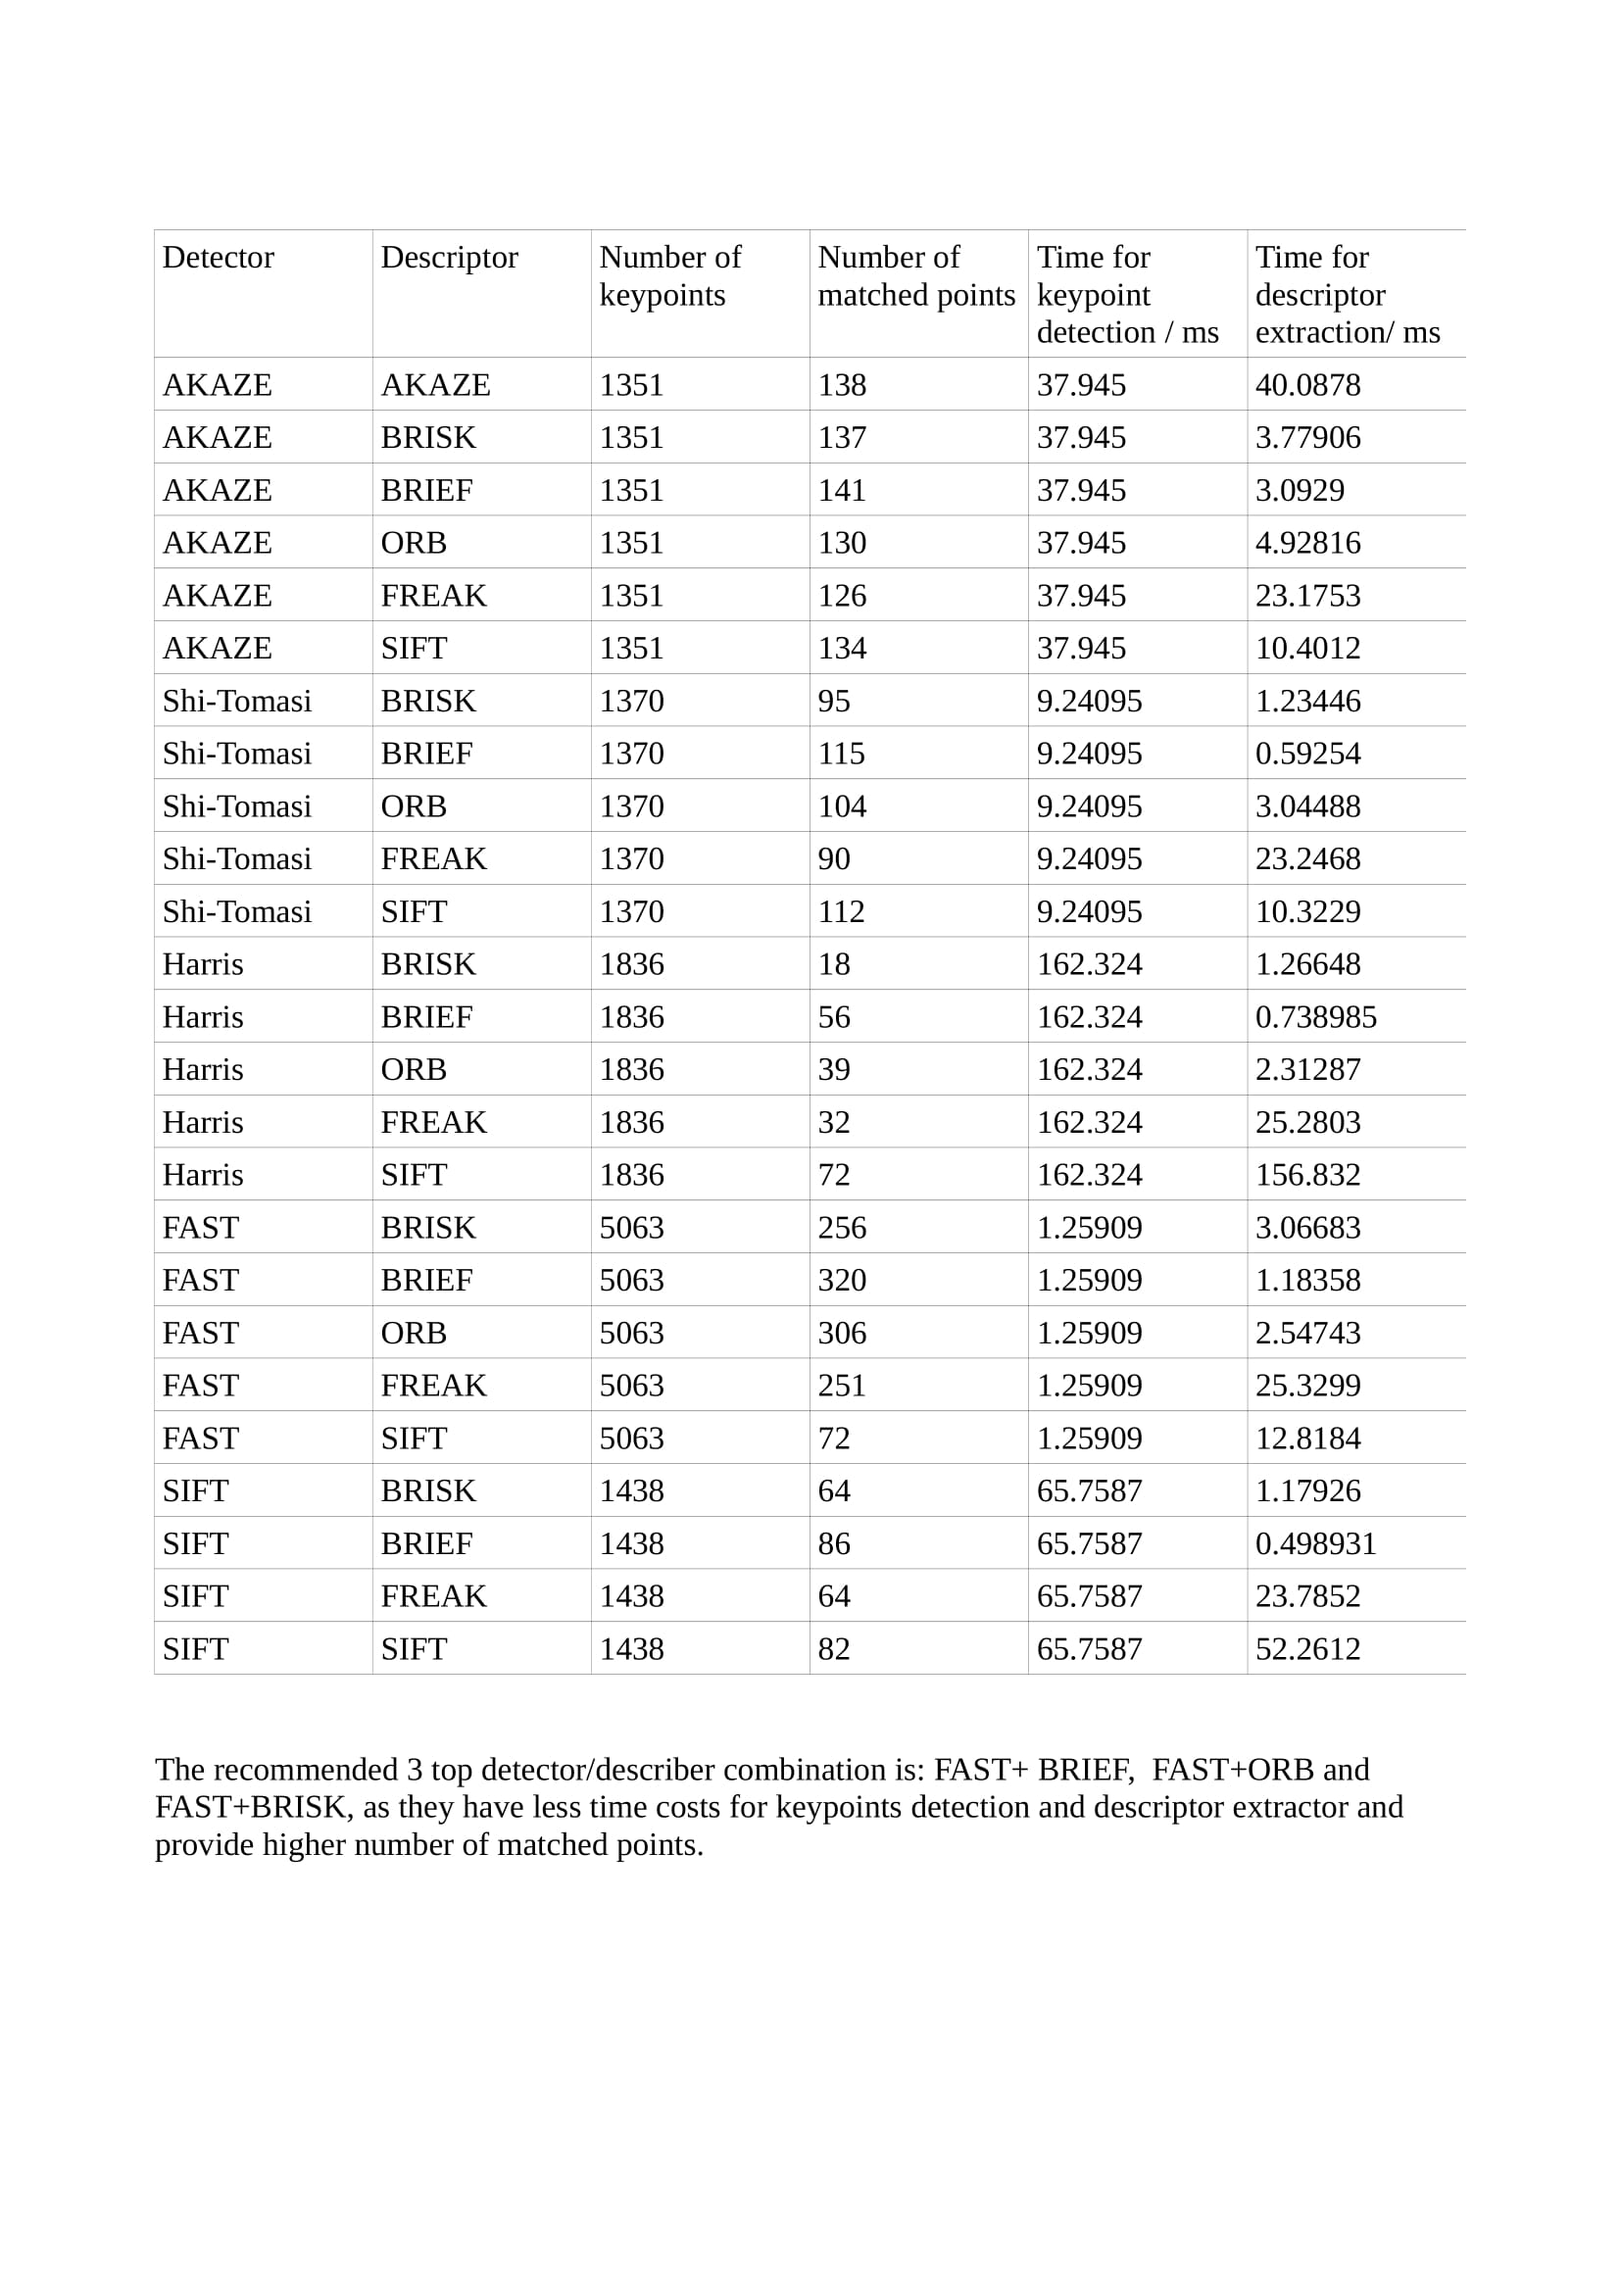
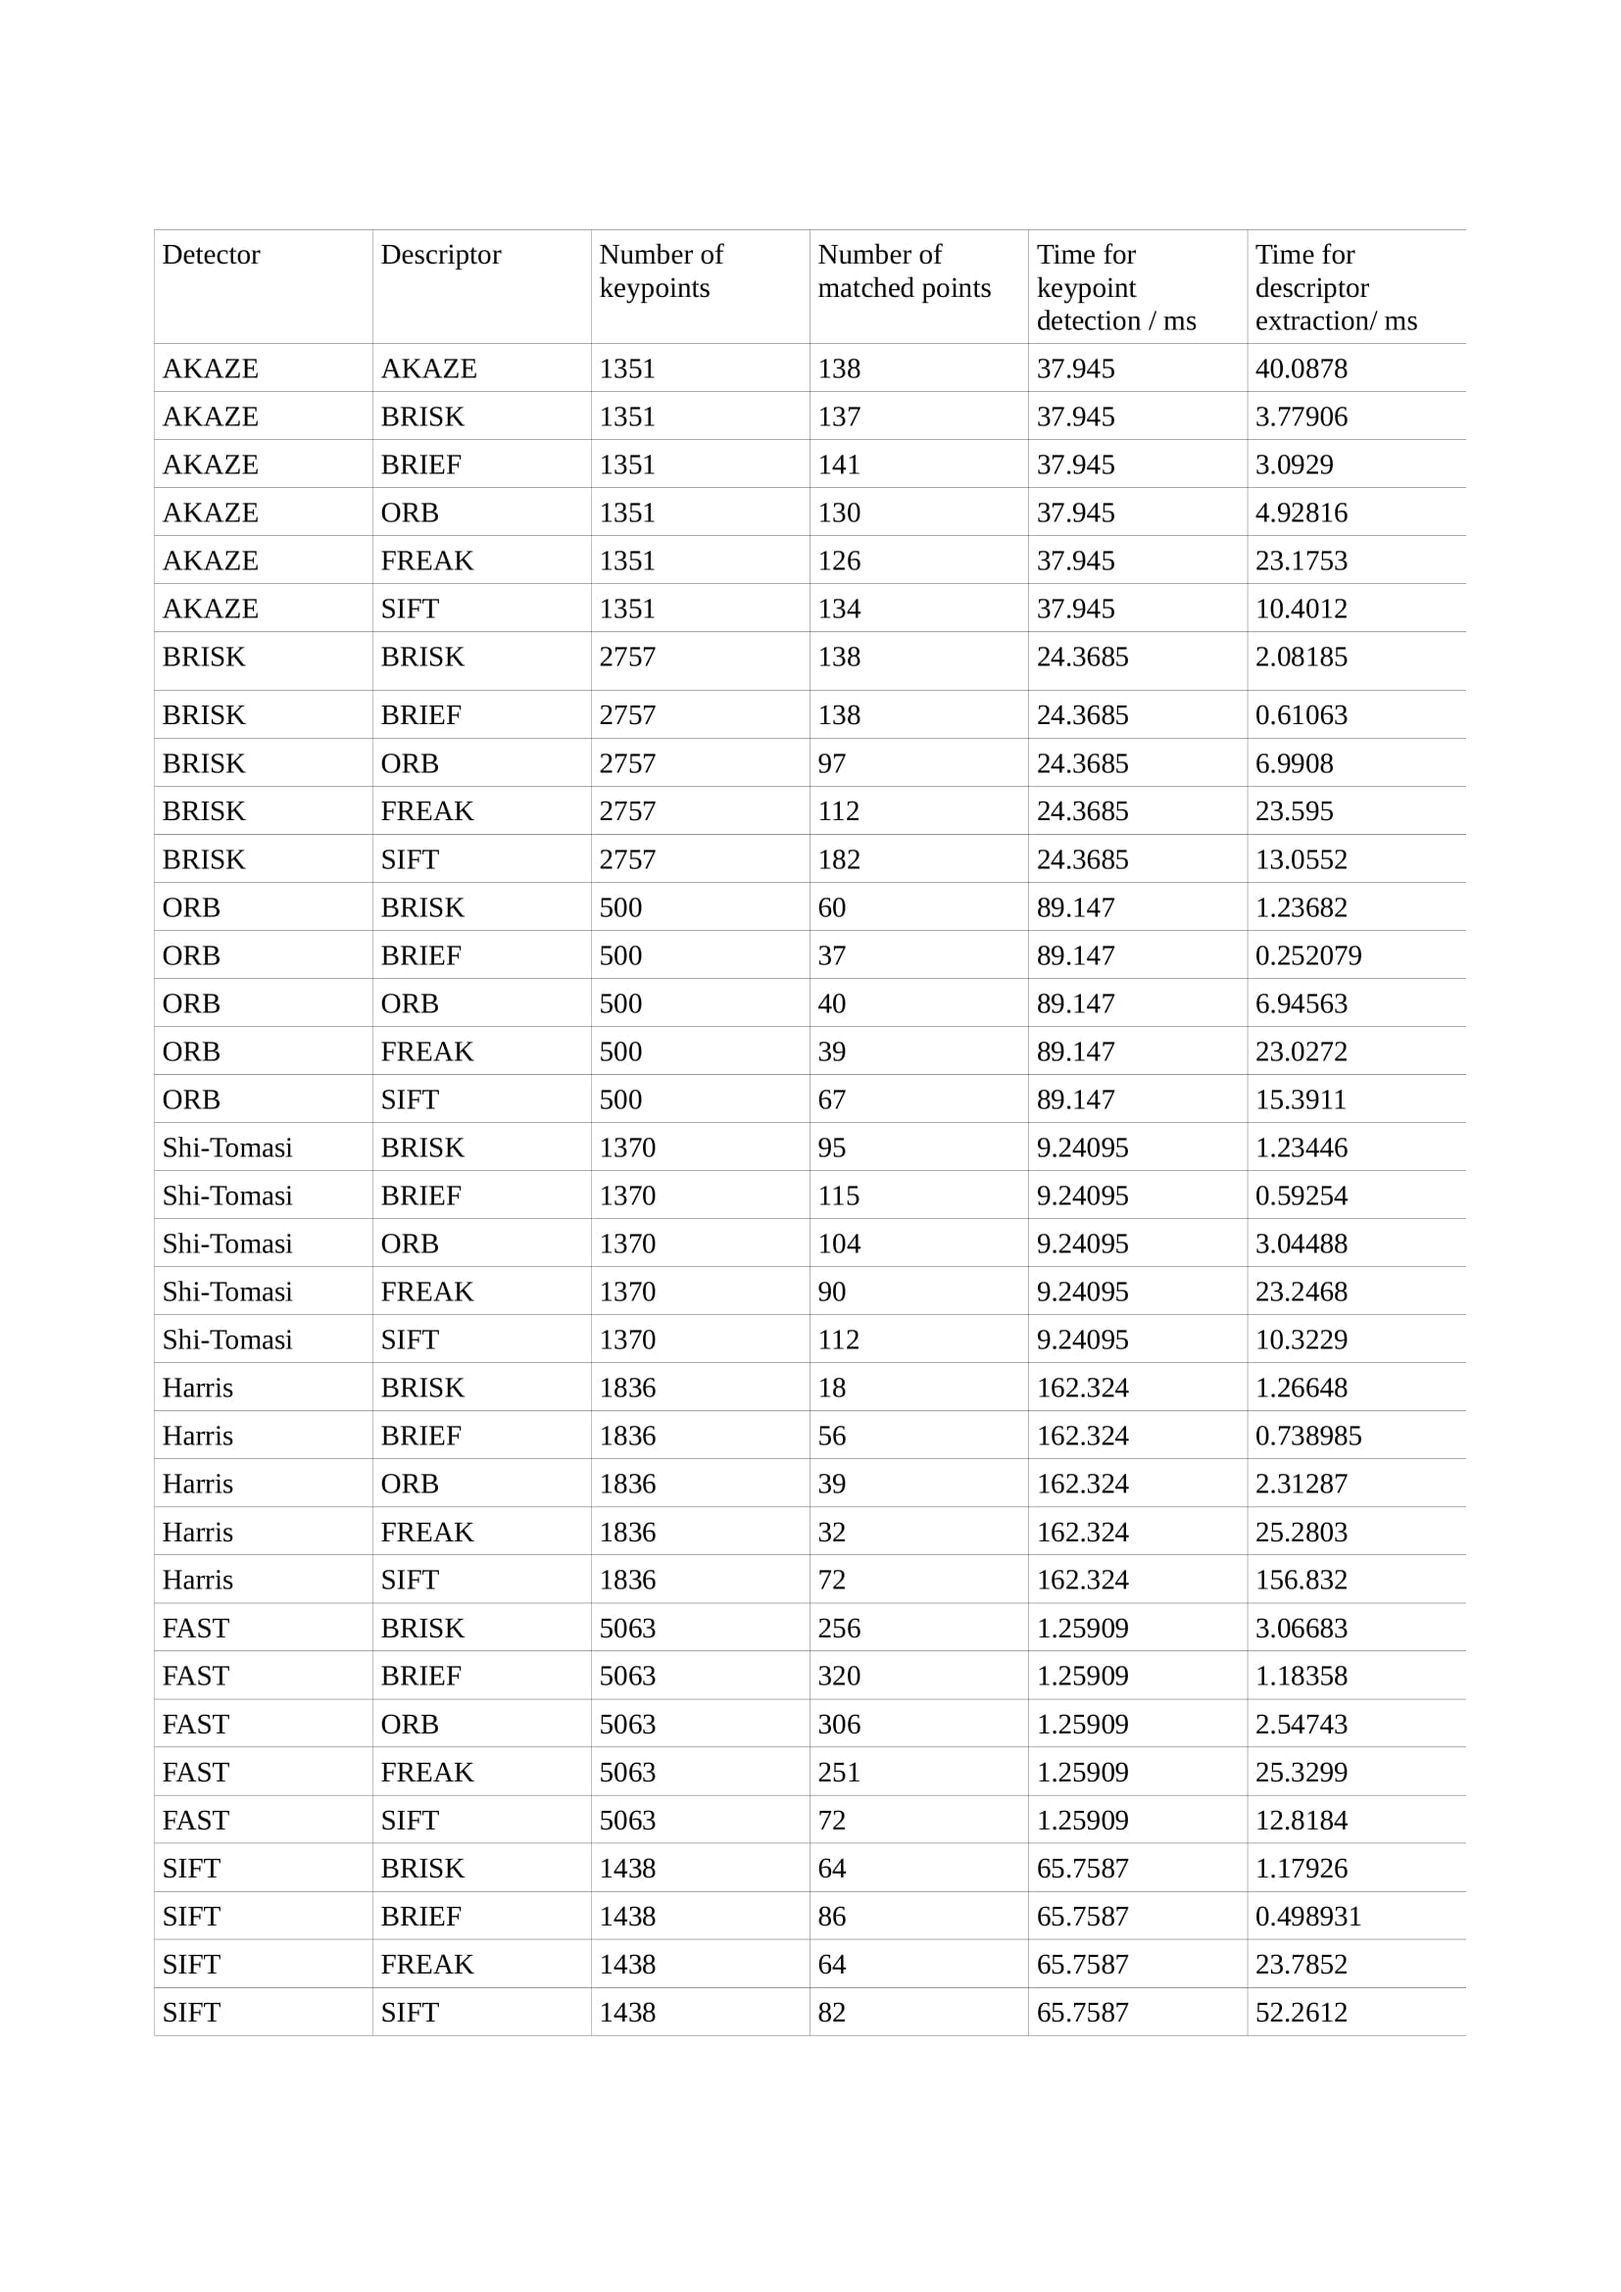
midterm project update

Changed region(s): [[0.0925, 0.0936, 0.8942, 0.9051], [0.2467, 0.0936, 0.3083, 0.1248], [0.0925, 0.0936, 0.1542, 0.1248]]

diff --git a/SFND_2D_Feature_Tracking/src/MidTermProject_Camera_Student.cpp b/SFND_2D_Feature_Tracking/src/MidTermProject_Camera_Student.cpp
@@ -74,7 +74,7 @@ int main(int argc, const char *argv[])
 
         // extract 2D keypoints from current image
         vector<cv::KeyPoint> keypoints; // create empty feature list for current image
-        string detectorType = "SIFT";
+        string detectorType = "BRISK";
 
         //// STUDENT ASSIGNMENT
         //// TASK MP.2 -> add the following keypoint detectors in file matching2D.cpp and enable string-based selection based on detectorType
@@ -103,6 +103,10 @@ int main(int argc, const char *argv[])
         else if(detectorType == "AKAZE")
         {
             detKeypointsAKAZE(keypoints, imgGray, false);
+        }
+        else if(detectorType == "BRISK")
+        {
+            detKeypointsBRISK(keypoints, imgGray, false);
         }
 
         //// EOF STUDENT ASSIGNMENT

diff --git a/SFND_2D_Feature_Tracking/Report.md b/SFND_2D_Feature_Tracking/Report.md
@@ -112,7 +112,7 @@ Implemented distance ratio to filter points for KNN.
 
 | Detector      | Number of Keypoints in ROI |
 | ------------- | -------------------------- |
-| **AKAZE**     | -                      |
+| **AKAZE**     | 1351                      |
 | **BRISK**     | -                      |
 | **FAST**      | 5063                       |
 | **HARRIS**    | 1836                       |
@@ -137,6 +137,7 @@ Implemented distance ratio to filter points for KNN.
 <img src="MidTermProject_Summary-1.jpg" width="820" height="1200" />
 
 
+The recommended 3 top detector/describer combination is: FAST+ BRIEF,  FAST+ORB and FAST+BRISK, as they have less time costs for keypoints detection and descriptor extractor and provide higher number of matched points.
 
 Reference Readme Template:
 https://github.com/danielkelshaw/SensorFusionND/edit/main/p2-feature-tracking/README.md
